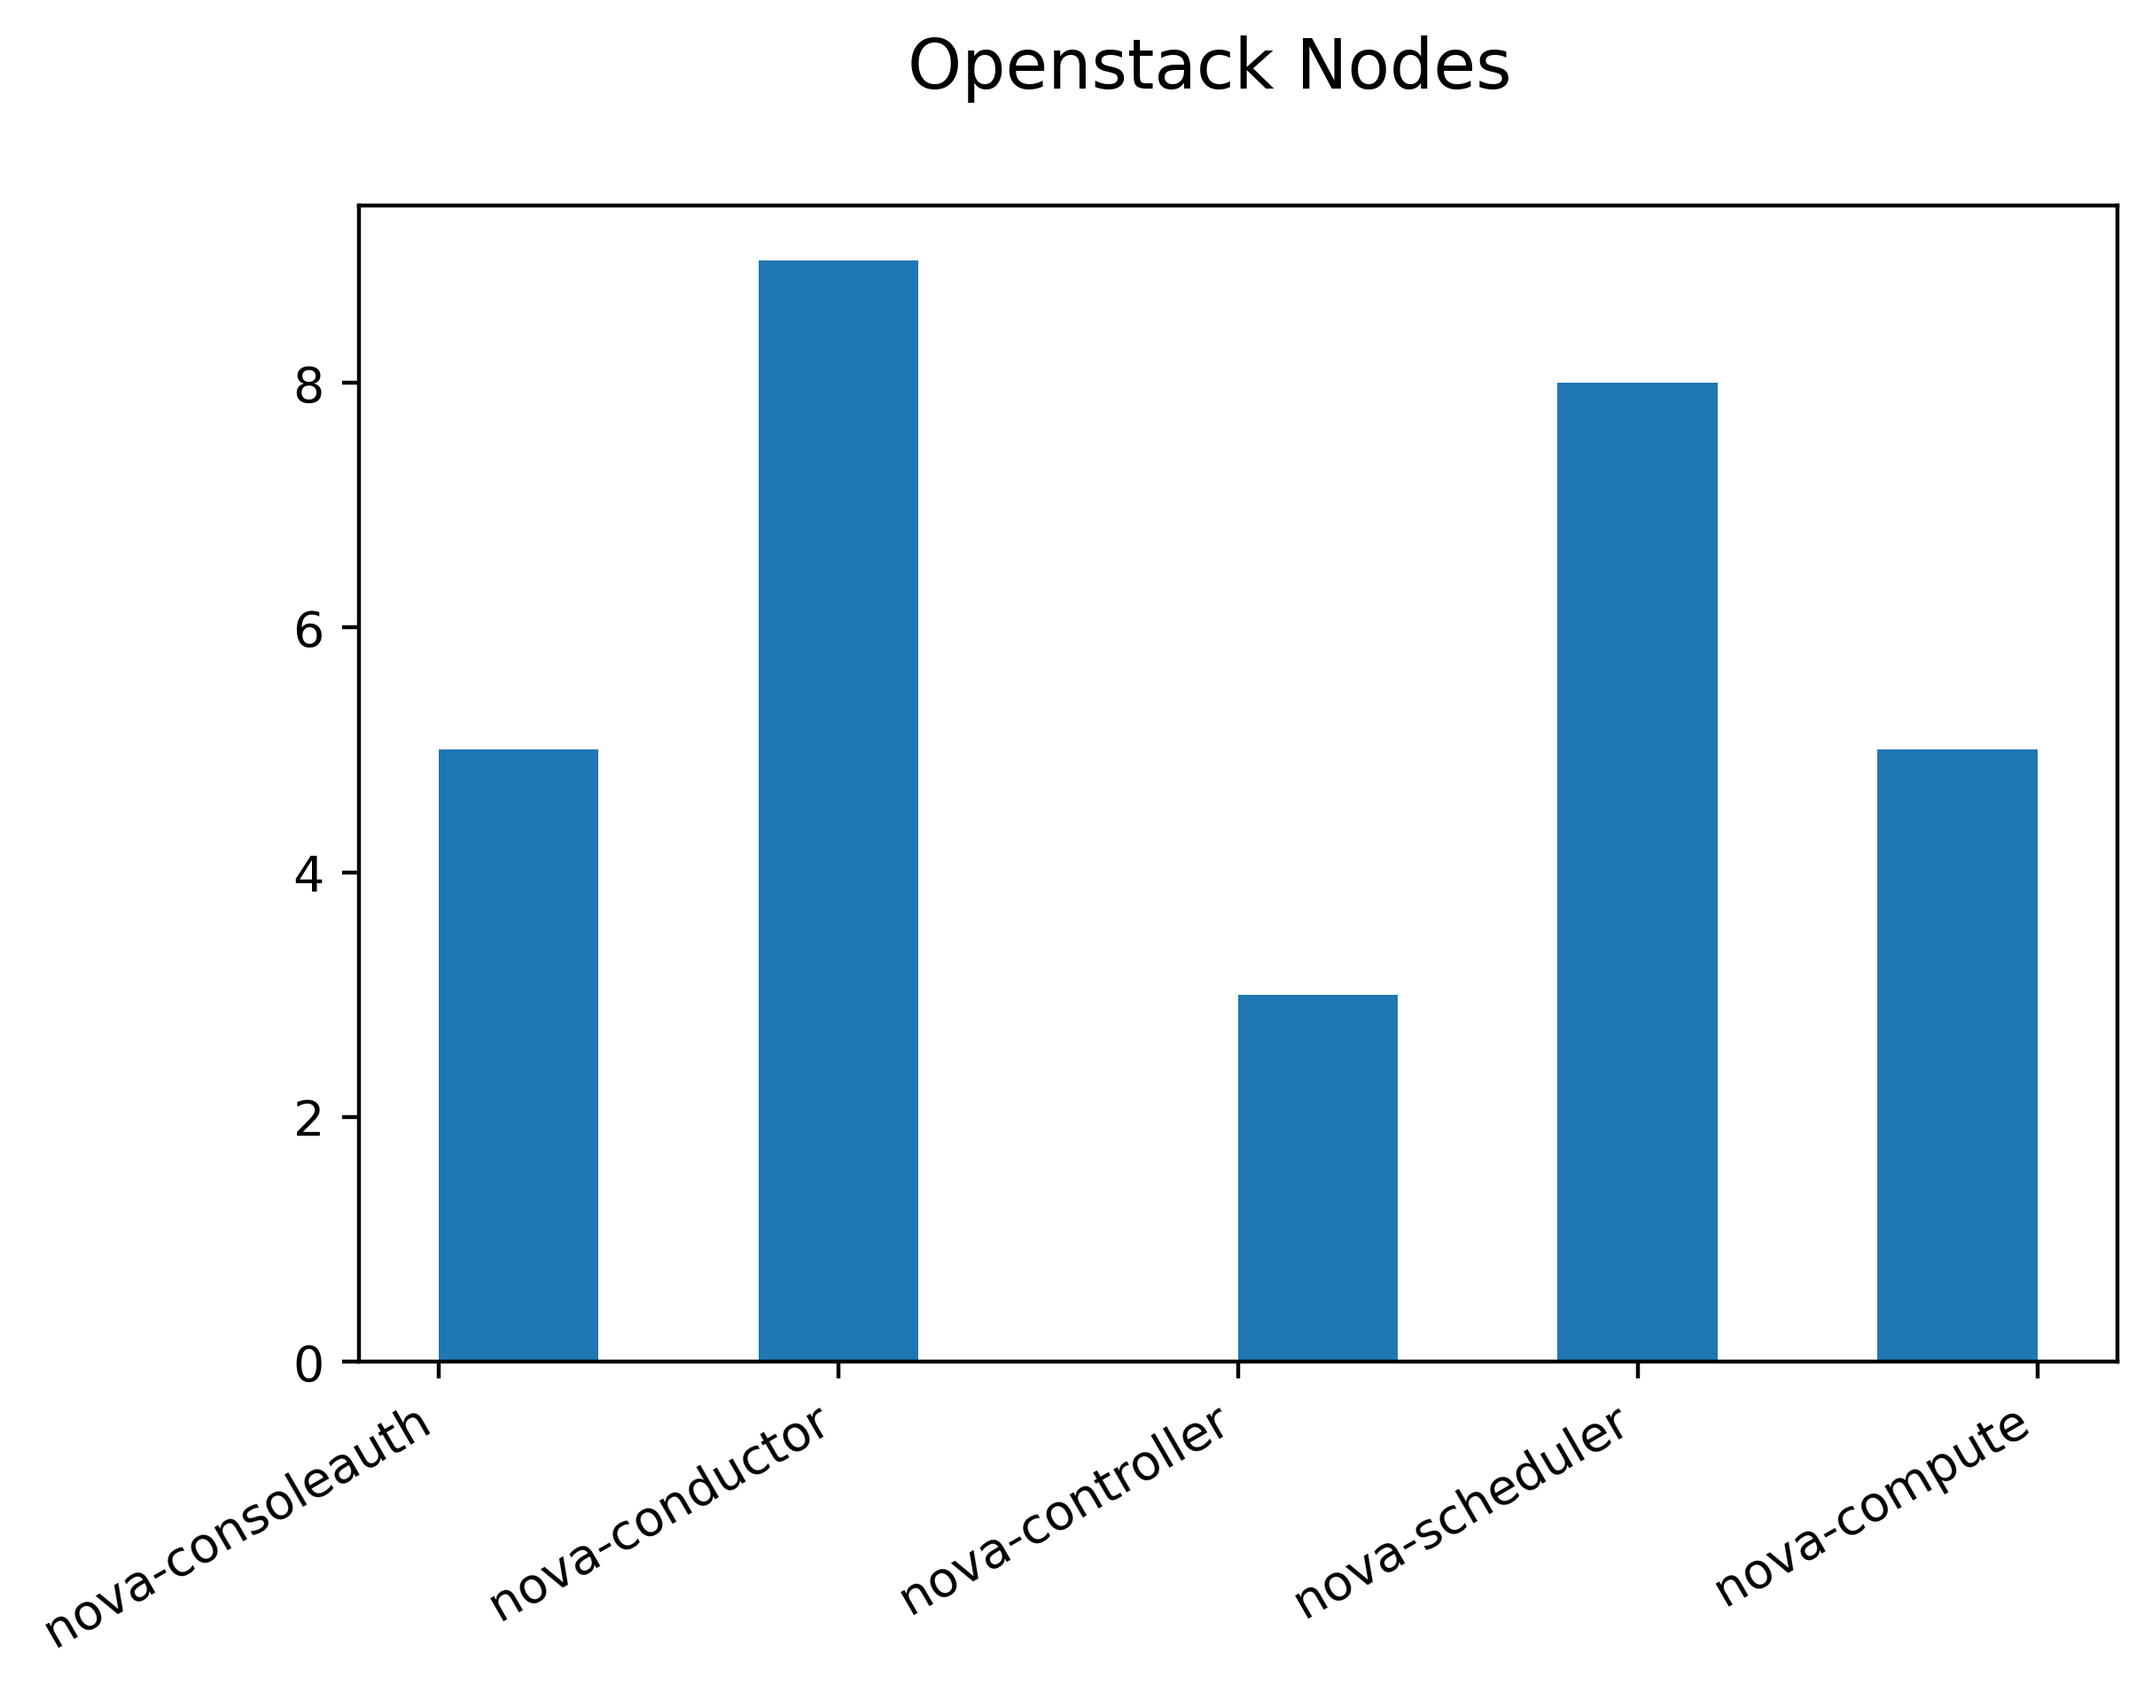
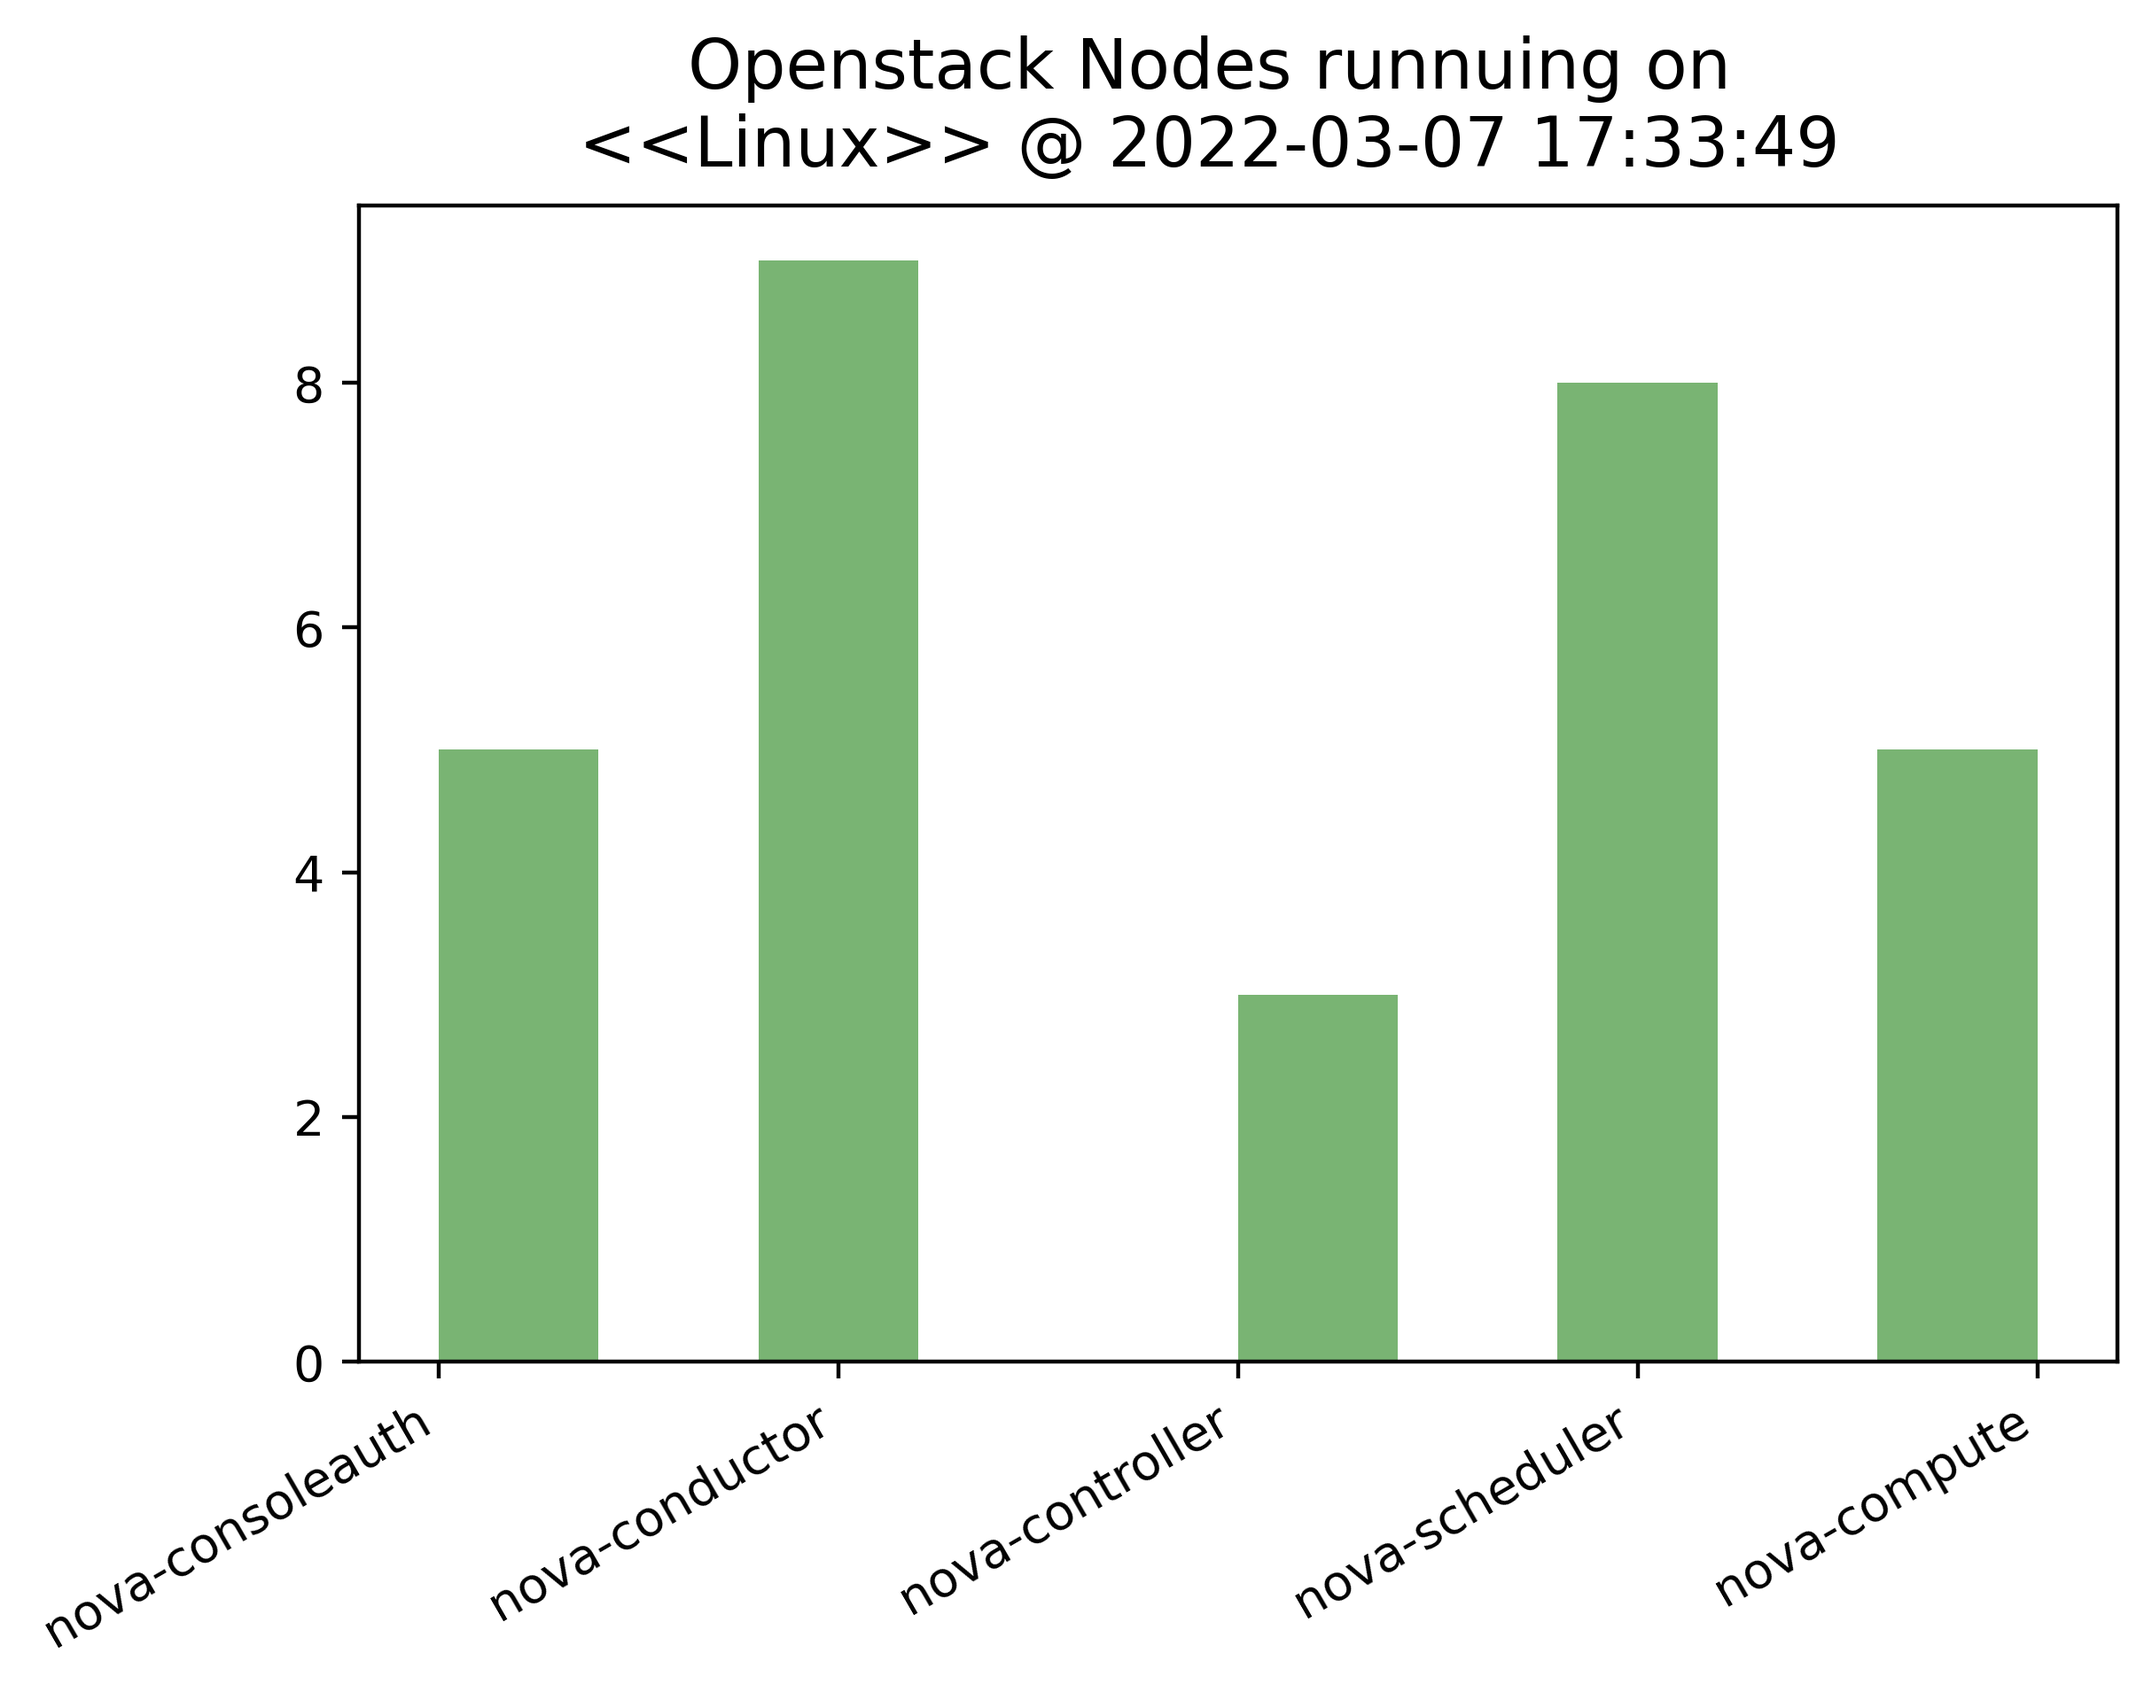
update the histogram to become a buffer

diff --git a/projects/openstack-topology/src/openstack-node-histogram.py b/projects/openstack-topology/src/openstack-node-histogram.py
@@ -1,8 +1,16 @@
+from datetime import datetime
+from turtle import color
 from matplotlib.figure import Figure
 import sqlite3 as db
 from contextlib import closing
 import base64
 from io import BytesIO
+
+import platform
+
+HOST = platform.uname()[0]
+
+GLOBAL_DB_FILE = 'src/openstack_topology.db'
 
 
 def get_db_content(db_file):
@@ -25,14 +33,27 @@ def get_openstack_node_types(openstack_list):
 def make_histogram(data):
     fig = Figure()
     ax = fig.subplots()
-    ax.hist(data)
-    fig.suptitle('Openstack Nodes', fontsize=14)
+    ax.hist(data, color='#79B473')
+    # ax.hist(data,color=[['#79B473','#70A37F','#41658A','#414073','#4C3957']])
+    time_stamp = f'{datetime.utcnow()}'[:-7]
+    fig.suptitle(
+        f'Openstack Nodes runnuing on\n<<{HOST}>> @ {time_stamp}', fontsize=14)
+
     # ax.set_xticks(rotation=30, ha='right')
     # rotate the labels according to the link below
     fig.autofmt_xdate(rotation=30)
     # https://www.delftstack.com/howto/matplotlib/how-to-rotate-x-axis-tick-label-text-in-matplotlib/
 
     fig.savefig('openstack_nodes.png', bbox_inches='tight', dpi=400)
+
+    # Save it to a temporary buffer
+    buffer = BytesIO()
+    # fig.savefig('swap-pie-chart.pdf', dpi=300, bbox_inches='tight')
+    fig.savefig(buffer, format="png")
+
+    # Embed the result in the html output.
+    data = base64.b64encode(buffer.getbuffer()).decode("ascii")
+    return data
 
 
 def main():
